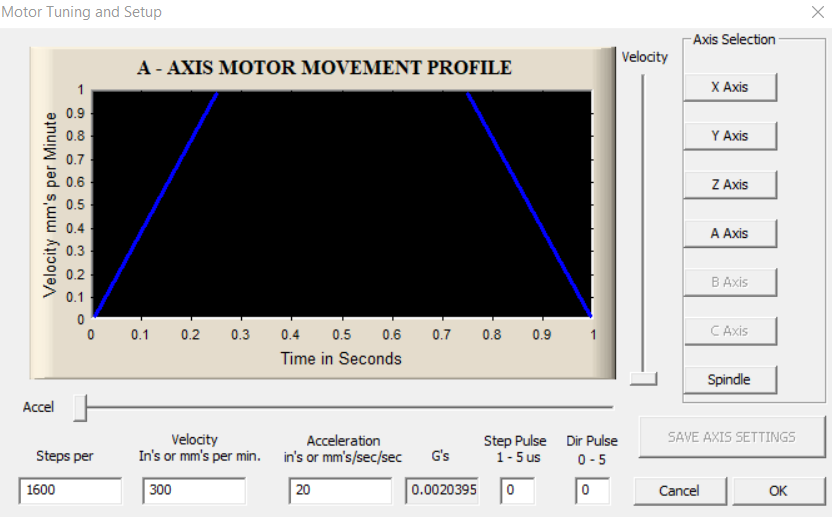
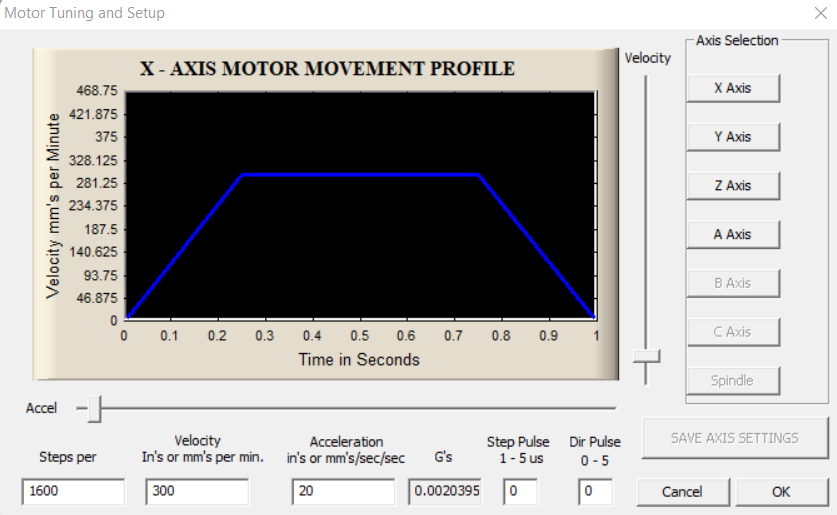
update

diff --git a/README.md b/README.md
@@ -46,9 +46,9 @@ A continuación se presentan algunas configuraciones a realizar en el software p
 ### Configurar Velocidad de los motores
 
 Dé click en la opción ```Config > Motor Tuning```, en la columna de la derecha seleccione el motor que desea configurar y en la parte inferior digite los valores que desea en cada ítem, se recomienda la siguiente configuración:
- - Steps:
- - Velocity:
- - Acceleration:
+ - Steps: 1600
+ - Velocity: 300
+ - Acceleration: 20
 
  Al finalizar la configuración de cada eje dé click en el botón **Save Axis Settings**, cuando acabe la configuración de todos los motores dé click en el botón **OK**
 
@@ -78,12 +78,14 @@ Desplácese hacia abajo en la tabla hasta encontrar la opción **EStop**, asegú
 
 <p align="center"><img width="400" src="https://github.com/sofiaponteb/Guia-de-instalacion-software-Mach3/blob/main/img/EStop.png"></p>
 
+> El botón de parada de emergencia se encarga de detener la rutina en funcionamiento, para reanudar el movimiento es necesario: primero, desactivar la parada de emergencia. Segundo, dar click en el botón de reinicio en el software Mach3. No se podrá realizar ningún movimiento con el dispositivo hasta que estas dos condiciones se cumplan en ese orden.
+
 **Finales de carrera**
 
 Los finales de carrera se conectarán de forma paralela en la entrada 2 de la tarjeta Mach3.
 
 Desplácese hacia arriba en la tabla hasta encontrar las opciones:
-**X HOME, Y HOME, ZHOME** asegúrese de que tienen marcada la opción ```Enabled``` e ingrese los siguientes valores:
+**X HOME, Y HOME, Z HOME** asegúrese de que tienen marcada la opción ```Enabled``` e ingrese los siguientes valores:
 - Port #: 3. Se refiere a la tarjeta Mach3
 - Pin Number: 3. Se refiere a la entrada número 3 (**IN3**) de la tarjeta
 
@@ -111,6 +113,10 @@ Para importar código G a ser usado en la máquina, seleccione la opción ```Fil
 El software soporta las extensiones ```.ncc```, ```.gcode```, ```.txt```
 
 En el repositorio puede encontrar un código de prueba ```prueba.txt``` 
+
+> **IMPORTANTE**: Si se desea probar código G línea por línea se debe dar click en el botón ```Single BLK```, o las teclas ```Alt + N```, para avanzar de línea se usa el botón ```Cycle Start```.
+
+De acuerdo a las pruebas realizadas, una unidad de desplazamiento de los ejes Y e Z en el software genera un desplazamiento de 5mm en la antorcha. Es decir, un código G que vaya de Z1 a Z2 moverá la antorcha 5mm en el eje Z. Una unidad de desplazamiento en el eje X genera un desplazamiento de 7.5mm en la antorcha
 
 ## Referencias :open_book:
 - machsupport.com
